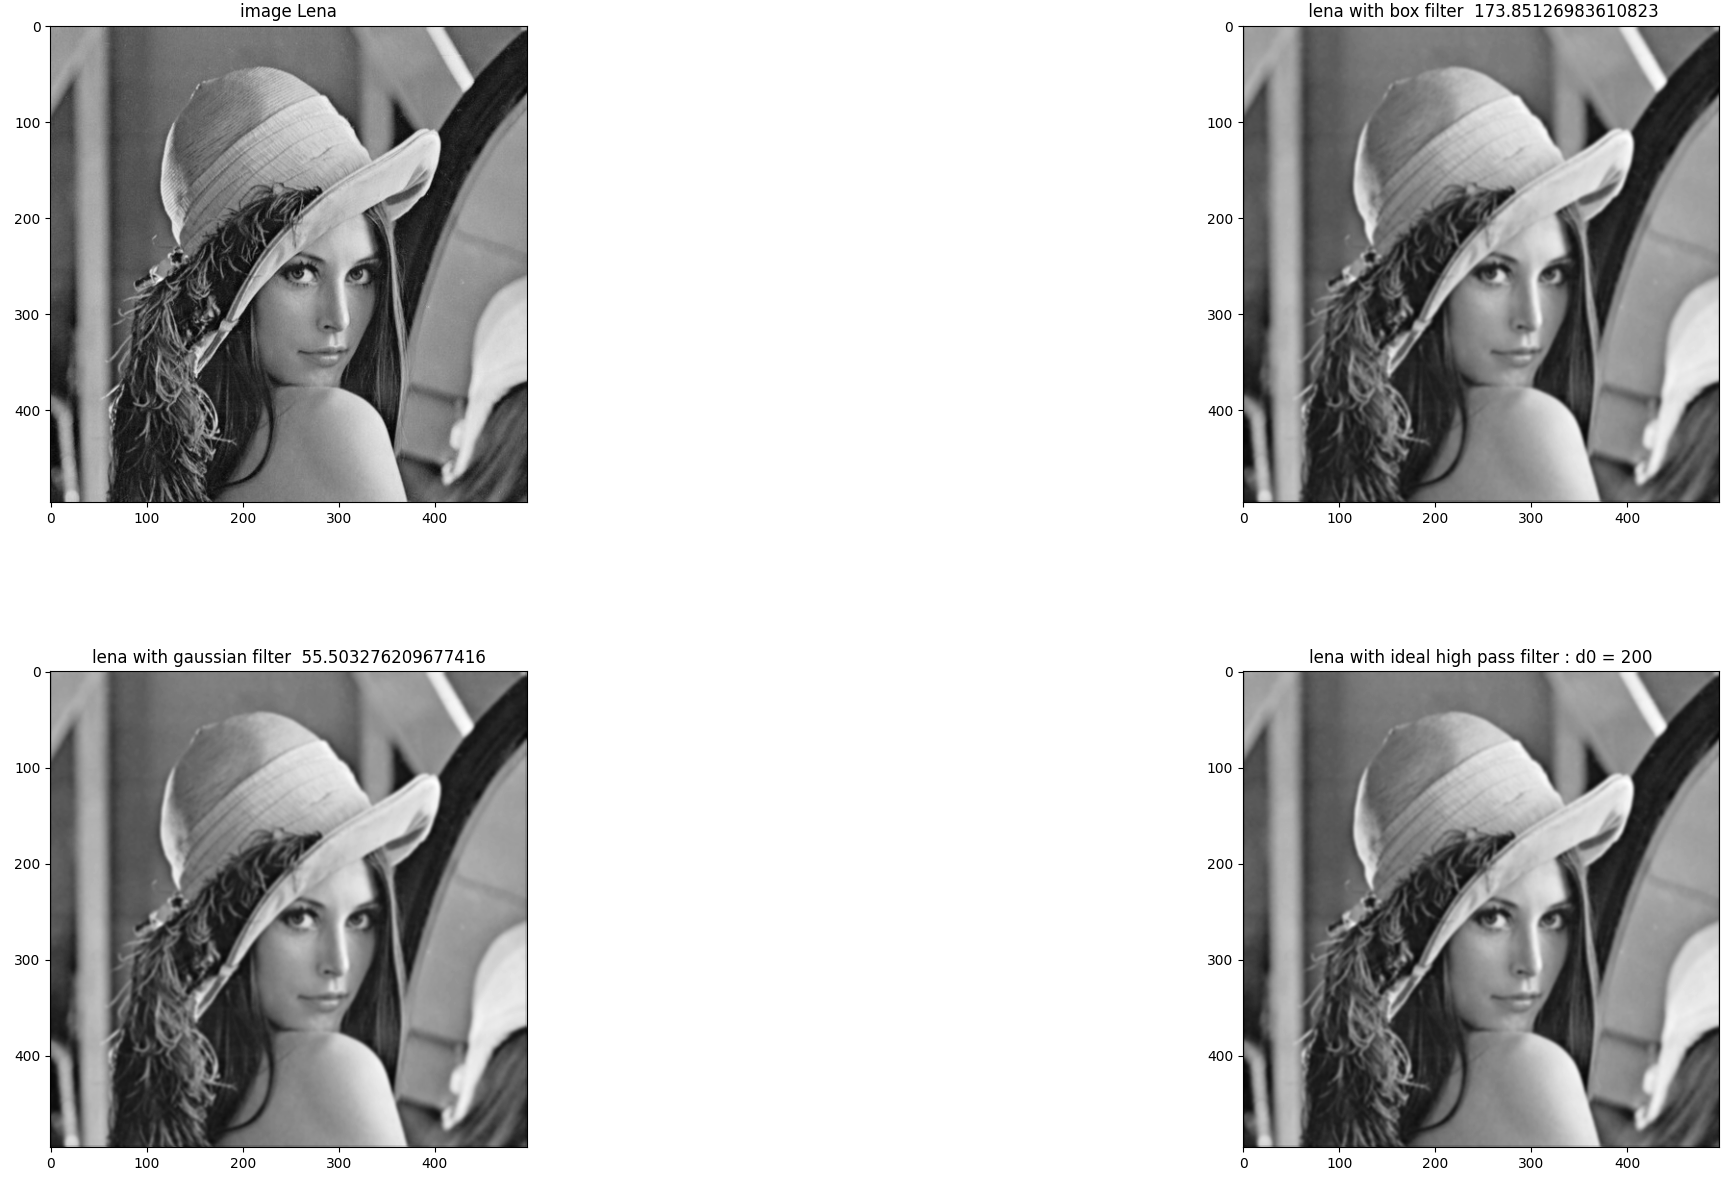
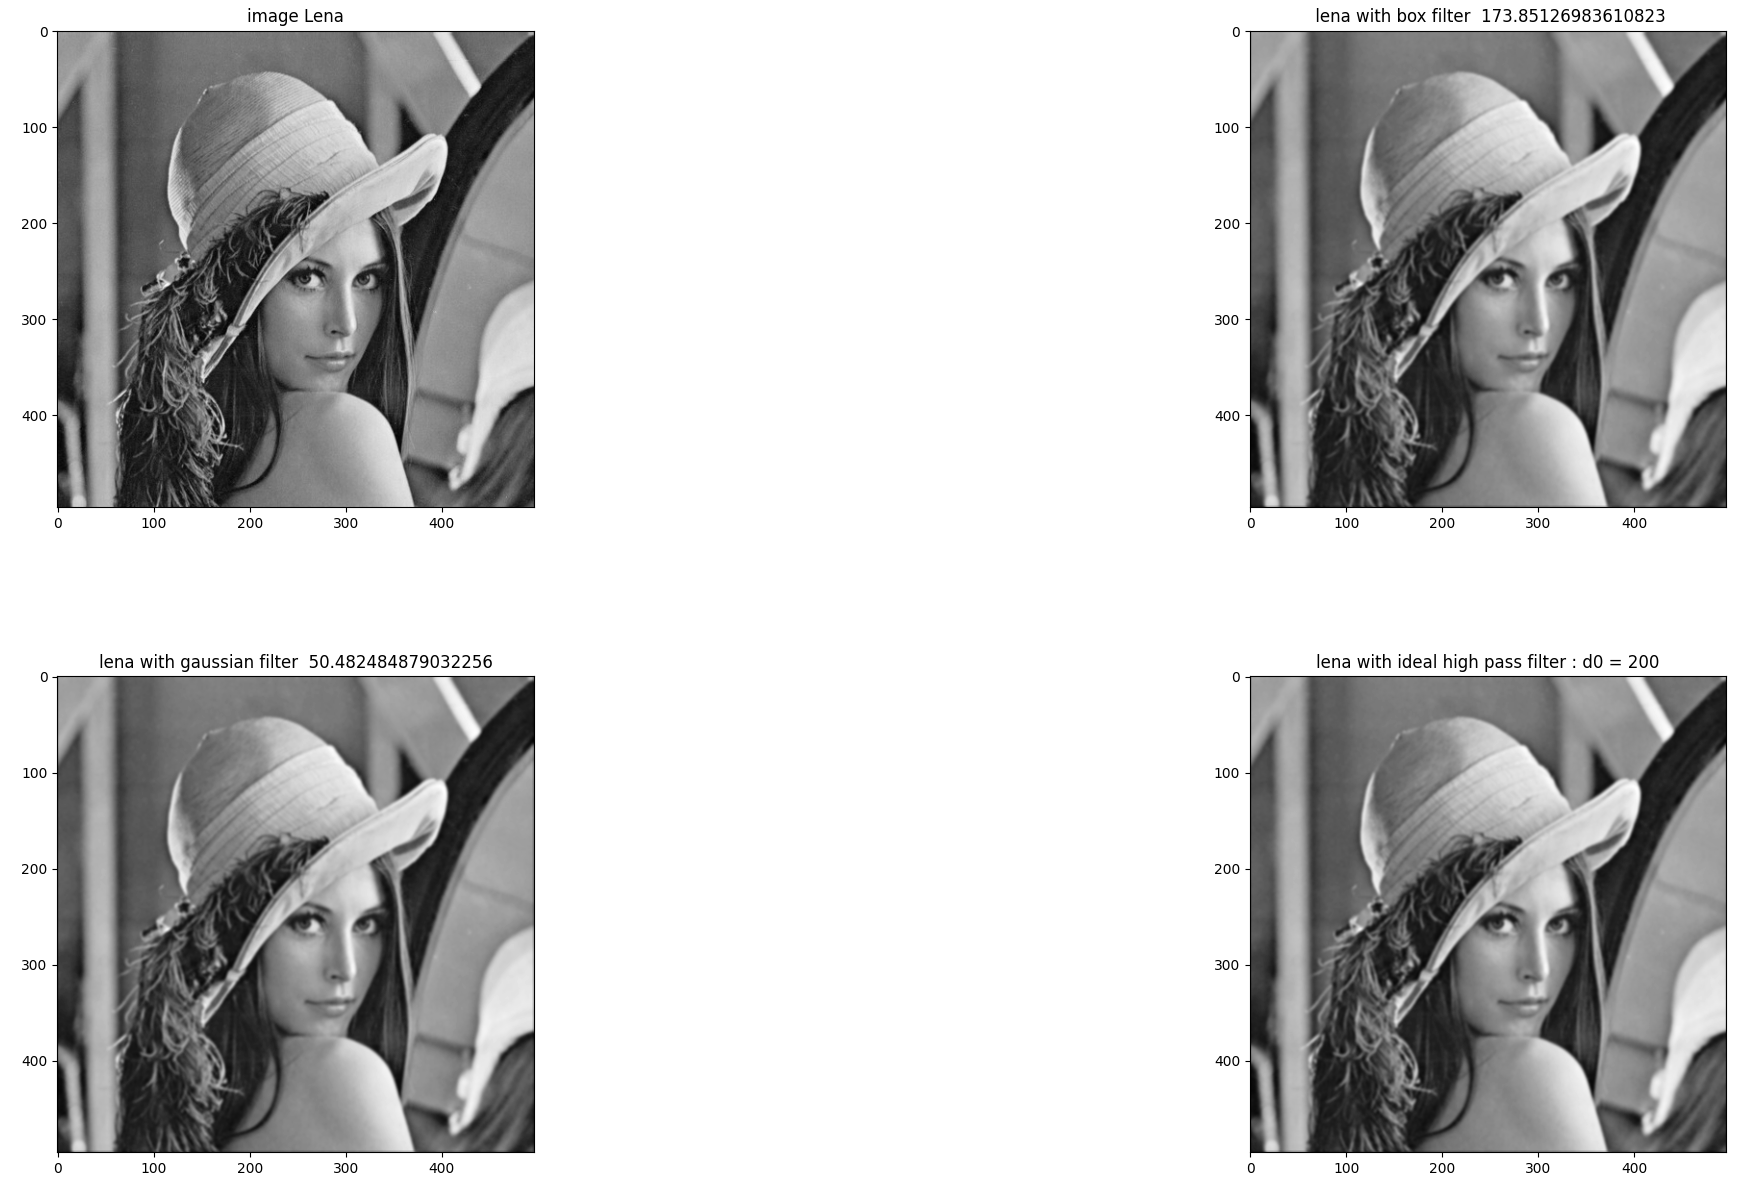
exo_1_2_4_done_3_almost

diff --git a/imagerieNumerique/TP_12/exercice_3.py b/imagerieNumerique/TP_12/exercice_3.py
@@ -2,10 +2,68 @@ import lib
 import numpy as np
 import skimage.util as util
 
-path = "lena.png"
-imageLena = lib.loadImag(path)
-res = lib.bandPassButter(imageLena, 150, 30, 2)
-lib.affichage_rows_cols_images(1, 1, [res], ["t"])
+# load images
+path = "img_001.jpeg"
+image_1 = lib.loadImag(path)
 
-res = lib.notchIdealFilter(imageLena, 20, [[100, 100], [-100 , 100]])
-lib.affichage_rows_cols_images(1, 1, [res], ["t"])
+path = "img_002.png"
+image_2 = lib.loadImag(path)
+
+path = "img_003.jpg"
+image_3 = lib.loadImag(path)
+
+path = "img_004.png"
+image_4 = lib.loadImag(path)
+
+dft_image_1 = np.fft.fft2(image_1)
+magnitude_dft_image_1 = np.abs(dft_image_1)
+dft_image_2 = np.fft.fft2(image_2)
+magnitude_dft_image_2 = np.abs(dft_image_2)
+dft_image_3 = np.fft.fft2(image_3)
+magnitude_dft_image_3 = np.abs(dft_image_3)
+dft_image_4 = np.fft.fft2(image_4)
+magnitude_dft_image_4 = np.abs(dft_image_4)
+
+imagesToPlot = [image_1, image_2, image_3, image_4, np.log(magnitude_dft_image_1 + 1),
+                np.log(magnitude_dft_image_2 + 1), np.log(magnitude_dft_image_3 + 1), np.log(magnitude_dft_image_4 + 1)]
+label = ["image 1", "image 2", "image 3", "image 4", "magnitude image 1", "magnitude image 2", "magnitude image 3",
+         "magnitude image 4"]
+lib.affichage_rows_cols_images(2, 4, imagesToPlot, label)
+
+
+# image 1 -> notch
+centers = [[123, -105, 7], [135, 125, 5], [14, -105, 5], [-20, -105, 5], [50, -105, 5]]
+filter = lib.notchIdealFilter_(dft_image_1, centers)
+
+imagesToPlot = [np.log(magnitude_dft_image_1 + 1), filter]
+label = ["magnitude image 1", "notch filter"]
+lib.affichage_rows_cols_images(1, 2, imagesToPlot, label)
+
+result = lib.notchIdealFilter(image_1, centers)
+result_mag = np.abs(np.fft.fft2(result))
+imagesToPlot = [np.log(magnitude_dft_image_1 + 1), filter, np.log(result_mag + 1)]
+label = ["magnitude image 1", "notch filter", "magnitude after filter"]
+lib.affichage_rows_cols_images(1, 3, imagesToPlot, label)
+
+imagesToPlot = [image_1, result]
+label = ["image 1", "image 1 with notch filter"]
+lib.affichage_rows_cols_images(1, 2, imagesToPlot, label)
+
+# image 3 -> notch
+
+centers = [[80, 145, 20], [-80, 145, 20]]
+filter = lib.notchIdealFilter_(dft_image_3, centers)
+
+imagesToPlot = [np.log(magnitude_dft_image_3 + 1), filter]
+label = ["magnitude image 3", "notch filter"]
+lib.affichage_rows_cols_images(1, 2, imagesToPlot, label)
+
+result = lib.notchIdealFilter(image_3, centers)
+result_mag = np.abs(np.fft.fft2(result))
+imagesToPlot = [np.log(magnitude_dft_image_3 + 1), filter, np.log(result_mag + 1)]
+label = ["magnitude image 3", "notch filter", "magnitude after filter"]
+lib.affichage_rows_cols_images(1, 3, imagesToPlot, label)
+
+imagesToPlot = [image_3, result]
+label = ["image 3", "image 3 with notch filter"]
+lib.affichage_rows_cols_images(1, 2, imagesToPlot, label)

diff --git a/imagerieNumerique/TP_12/lib.py b/imagerieNumerique/TP_12/lib.py
@@ -278,7 +278,31 @@ def compute_D1_D2(u, v, M, N, val0, val1, type):
         return np.sqrt((u - M / 2 + val0) ** 2 + (v - N / 2 + val1) ** 2)
 
 
-def notchIdealFilter(image, cutOff, centers):
+def notchIdealFilter(image, centers):
+    dft_image = np.fft.fft2(image)
+    M = image.shape[0]
+    N = image.shape[1]
+    H = np.ones((M, N))
+    # D1 = np.sqrt((u - M/2 - centers[0][0])**2 + (v - N/2 - centers[0][1])**2))
+    # D2 = np.sqrt((u - M/2 + centers[0][0])**2 + (v - N/2 + centers[0][1])**2))
+
+    for i in range(H.shape[0]):
+        for j in range(H.shape[1]):
+            res = 1
+            for center in centers:
+                if compute_D1_D2(i, j, M, N, center[0], center[1], 1) <= center[2] or compute_D1_D2(i, j, M, N,
+                                                                                                 center[0],
+                                                                                                 center[1],
+                                                                                                 0) <= center[2]:
+                    res = res * 0
+            H[i][j] = res
+
+    G = np.multiply(H, dft_image)
+    filtered_image = np.fft.ifft2(G).real
+    return filtered_image
+
+
+def notchIdealFilter_(image, centers):
     dft_image = np.fft.fft2(image)
     M = image.shape[0]
     N = image.shape[1]
@@ -289,16 +313,13 @@ def notchIdealFilter(image, cutOff, centers):
         for j in range(H.shape[1]):
             res = 1
             for center in centers:
-                if compute_D1_D2(i, j, M, N, center[0], center[1], 1) <= cutOff or compute_D1_D2(i, j, M, N,
+                if compute_D1_D2(i, j, M, N, center[0], center[1], 1) <= center[2] or compute_D1_D2(i, j, M, N,
                                                                                                  center[0],
                                                                                                  center[1],
-                                                                                                 0) <= cutOff:
+                                                                                                 0) <= center[2]:
                     res = res * 0
             H[i][j] = res
     return H
-    G = np.multiply(H, dft_image)
-    filtered_image = np.fft.ifft2(G).real
-    return filtered_image
 
 
 """

diff --git a/imagerieNumerique/TP_12/exercice_4.py b/imagerieNumerique/TP_12/exercice_4.py
@@ -2,7 +2,9 @@ import lib
 import numpy as np
 import skimage.util as util
 
-path = "img_005.jpg"
+# a
+
+path = "img_006.jpg"
 image5 = lib.loadImag(path)
 
 res = lib.medianFiltering(image5, 2)
@@ -16,3 +18,35 @@ for i in range(5, 13):
     print(i)
 
 lib.affichage_rows_cols_images(3, 3, img, lb)
+
+# b
+
+dft_image_5 = np.fft.fft2(image5)
+magnitude_dft_image_5 = np.abs(dft_image_5)
+"""
+imagesToPlot = [image5, np.log(magnitude_dft_image_5 + 1)]
+label = ["image 6","magnitude image 6"]
+lib.affichage_rows_cols_images(1,2, imagesToPlot, label)
+"""
+centers = [[77,-230, 10], [115,-240, 10]]
+filter = lib.notchIdealFilter_(image5, centers)
+"""
+imagesToPlot = [np.log(magnitude_dft_image_5 + 1), filter]
+label = ["magnitude image 6", "notch filter"]
+lib.affichage_rows_cols_images(1, 2, imagesToPlot, label)
+"""
+result = lib.notchIdealFilter(image5, centers)
+result_mag = np.abs(np.fft.fft2(result))
+imagesToPlot = [np.log(magnitude_dft_image_5 + 1), filter, np.log(result_mag + 1)]
+label = ["magnitude image 6", "notch filter", "magnitude after filter"]
+lib.affichage_rows_cols_images(1, 3, imagesToPlot, label)
+
+imagesToPlot = [image5, result]
+label = ["image 6", "image 6 with notch filter"]
+lib.affichage_rows_cols_images(1, 2, imagesToPlot, label)
+
+# c
+
+imagesToPlot = [image5, img[4], img[5], result]
+label = ["image 6", "image6 median filter N = 8", "image6 median filter N = 9", "image 6 with notch filter"]
+lib.affichage_rows_cols_images(2, 2, imagesToPlot, label)

diff --git a/imagerieNumerique/TP_12/exercice_2.py b/imagerieNumerique/TP_12/exercice_2.py
@@ -19,7 +19,7 @@ lib.affichage_rows_cols_images(1, 2, imagesToPlot, label)
 
 # actual a
 
-filter = 1 / 9 * lib.np.array([[1, 1, 1], [1, 1, 1], [1, 1, 1]])
+filter = 1 / 16 * lib.np.array([[1, 2, 1], [2, 4, 2], [1, 2, 1]])
 imageLena_pad_filtered_box_pad_filtre_gauss_ = lib.image_filtering(imageLena_pad_filtered_box_, filter)
 imageLena_pad_filtered_box_pad_filtre_gauss = lib.get_cropped_image(imageLena_pad_filtered_box_pad_filtre_gauss_, -1)
 
